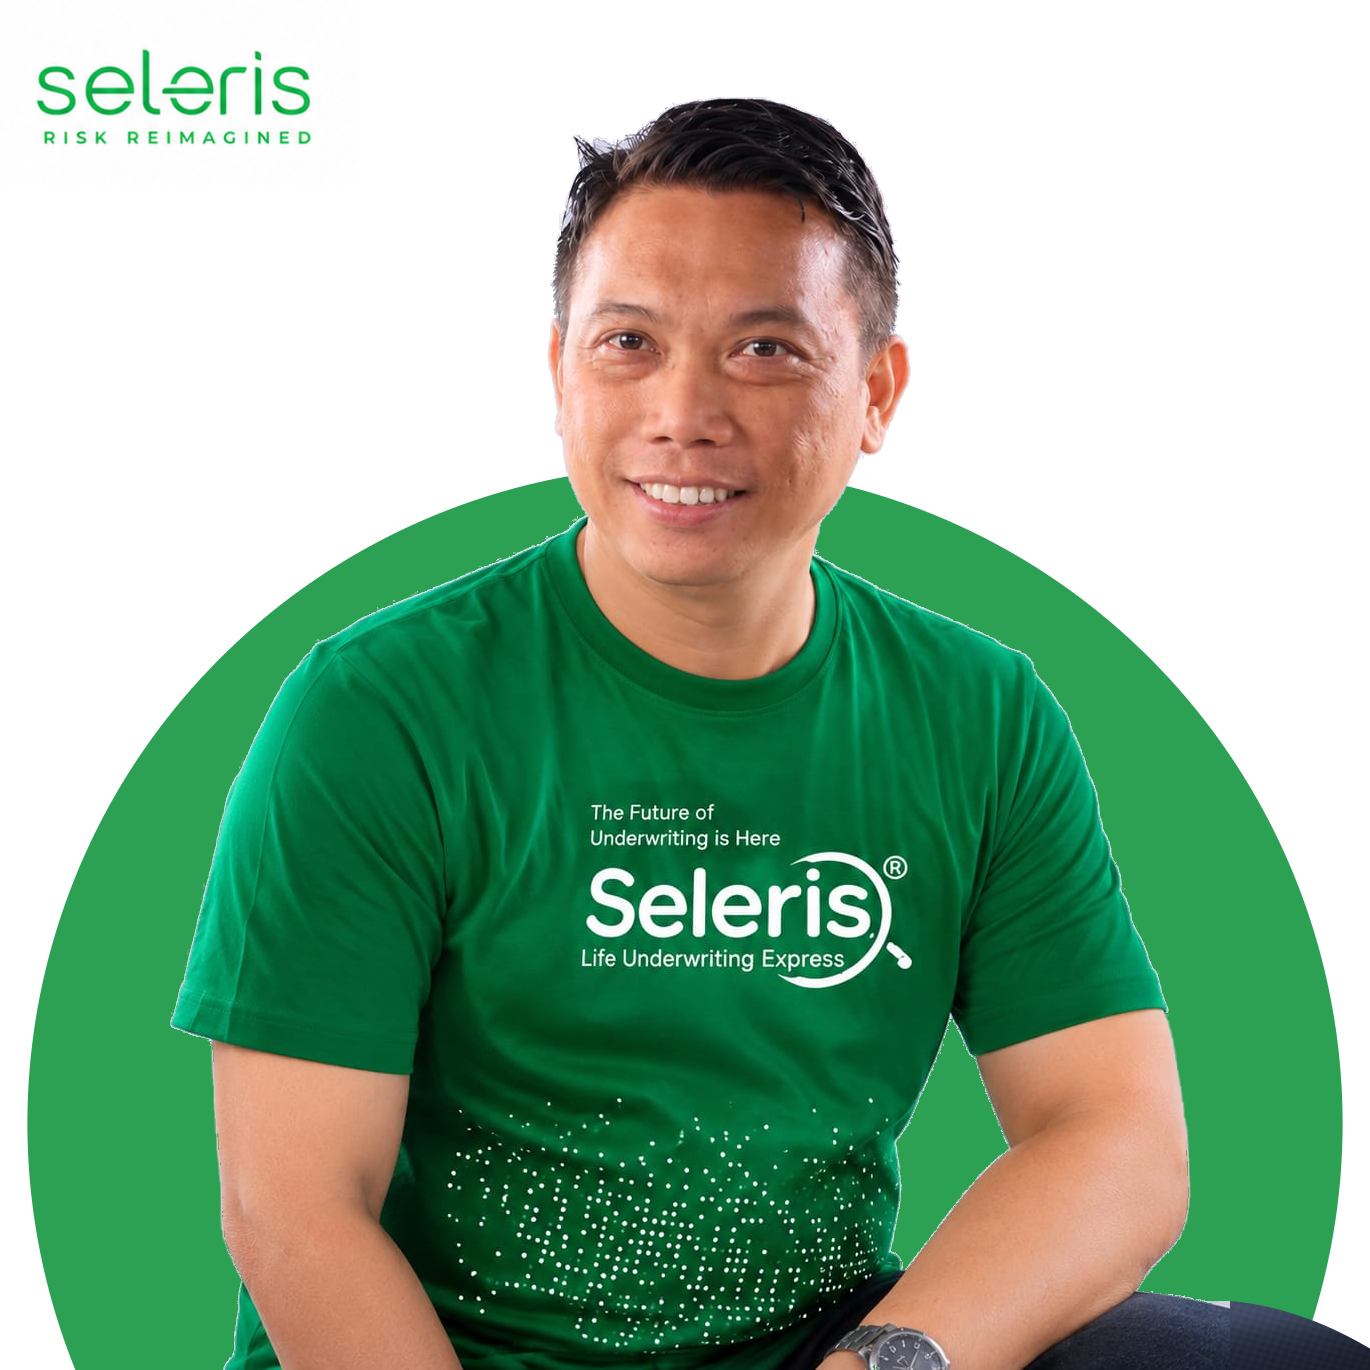
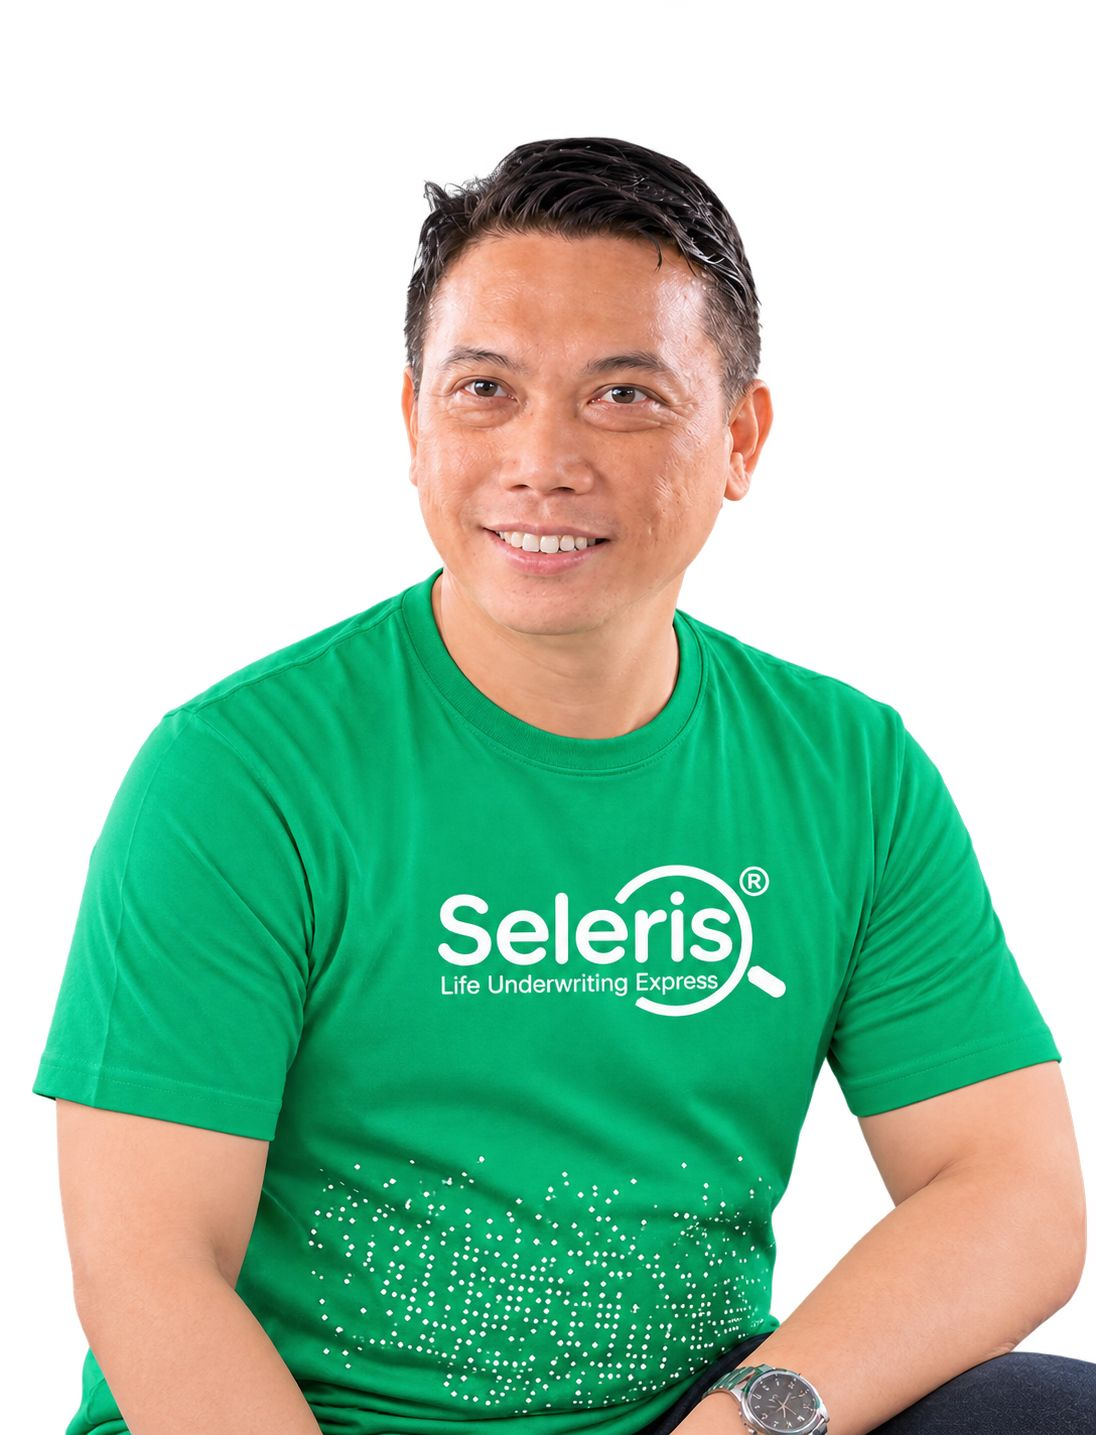
workshop: gate Sentris workshop data behind a host switch
Static on seleris.ai for now (no Sentris calls, /workshops shows the empty
state, HEALTHPRICING page hidden, home popup off) so draft test data in
Sentris does not leak to production. Dynamic on localhost and
selerisup2date.pages.dev for testing. Flip by adding the host to the list
in src/Data/workshops/index.js once approved.

Also compress Yudhi and Yusuf team photos (1.5 MB -> ~0.14 MB each).

diff --git a/src/Data/workshops/index.js b/src/Data/workshops/index.js
@@ -6,6 +6,26 @@ export const workshopCatalog = [
   { i18nKey: "healthpricing360", workshop: healthPricing360 },
 ];
 
+// Sakelar sementara: data workshop dari Sentris hanya aktif di lokal dan di
+// situs uji selerisup2date.pages.dev. Di seleris.ai belum, sampai pengujian
+// selesai dan disetujui. Untuk mengaktifkan di produksi nanti: tambahkan
+// "seleris.ai" ke daftar, atau ubah baris ini menjadi true.
+const dynamicHost = () => {
+  if (typeof window === "undefined") return false;
+  const host = window.location.hostname;
+  return (
+    host === "localhost" ||
+    host === "127.0.0.1" ||
+    host === "selerisup2date.pages.dev" ||
+    host.endsWith(".selerisup2date.pages.dev")
+  );
+};
+
+const isDevBuild =
+  typeof import.meta !== "undefined" && import.meta.env && import.meta.env.DEV;
+
+export const WORKSHOP_DYNAMIC = Boolean(isDevBuild) || dynamicHost();
+
 export const detailPathFor = (slug) =>
   workshopCatalog.find((entry) => entry.workshop.slug === slug)?.workshop
     .path || null;

diff --git a/src/composables/useWorkshopList.js b/src/composables/useWorkshopList.js
@@ -1,7 +1,7 @@
 import { computed, ref } from "vue";
 import { useI18n } from "vue-i18n";
 import { usePageLoadingStore } from "@/stores/pageLoading";
-import { detailPathFor } from "@/Data/workshops";
+import { WORKSHOP_DYNAMIC, detailPathFor } from "@/Data/workshops";
 import { loadWorkshopList, sentrisWorkshops } from "@/consumeAPI/workshopsApi";
 
 const STATUSES = ["open", "full", "closed", "past"];
@@ -62,9 +62,15 @@ const compare = (a, b) => {
 
 export function useWorkshopList() {
   const { locale } = useI18n();
-  const state = ref(sentrisWorkshops.value ? "ready" : "loading");
+  const state = ref(
+    !WORKSHOP_DYNAMIC || sentrisWorkshops.value ? "ready" : "loading",
+  );
 
   const load = async ({ fresh = true } = {}) => {
+    if (!WORKSHOP_DYNAMIC) {
+      state.value = "ready";
+      return;
+    }
     const pageLoading = usePageLoadingStore();
     if (!sentrisWorkshops.value) state.value = "loading";
     pageLoading.start();

diff --git a/src/components/Home/WorkshopPopup.vue b/src/components/Home/WorkshopPopup.vue
@@ -8,6 +8,7 @@ import ResourceWorkshop from "@/components/icons/ResourceWorkshop.vue";
 import { useSidebarStore } from "@/stores/sidebar";
 import { loadWorkshopList } from "@/consumeAPI/workshopsApi";
 import { featuredWorkshop, workshopStatus } from "@/utils/workshopStatus";
+import { WORKSHOP_DYNAMIC } from "@/Data/workshops";
 
 const DISMISS_KEY = `seleris:workshop-popup:${workshop.slug}`;
 const SHOW_DELAY_MS = 1400;
@@ -54,7 +55,7 @@ watch([contentReady, eligible], ([ready, ok]) => {
 });
 
 onMounted(async () => {
-  if (wasDismissed()) return;
+  if (!WORKSHOP_DYNAMIC || wasDismissed()) return;
   try {
     const item = featuredWorkshop(await loadWorkshopList());
     if (item?.slug !== workshop.slug || workshopStatus(item) !== "open") return;

diff --git a/src/router/index.js b/src/router/index.js
@@ -1,6 +1,6 @@
 import { createRouter, createWebHistory } from "vue-router";
 import { healthPricing360 } from "@/Data/workshops/healthpricing360";
-import { WORKSHOP_LIST_PATH } from "@/Data/workshops";
+import { WORKSHOP_DYNAMIC, WORKSHOP_LIST_PATH } from "@/Data/workshops";
 import { loadWorkshopDetail } from "@/consumeAPI/workshopsApi";
 
 // "ai-powered" -> "Ai Powered"
@@ -214,6 +214,7 @@ const routes = [
     meta: { title: "HEALTHPRICING 360° Workshop" },
     beforeEnter: async () => {
       if (import.meta.env.DEV) return true;
+      if (!WORKSHOP_DYNAMIC) return { path: "/", replace: true };
       try {
         const detail = await loadWorkshopDetail(healthPricing360.slug);
         return Boolean(detail) || { path: "/", replace: true };

diff --git a/src/components/Sidebar.vue b/src/components/Sidebar.vue
@@ -12,6 +12,7 @@ import { productList } from "@/Data/ProductList";
 import { technologyList } from "@/Data/TechnologyList";
 import { SolutionLists } from "@/Data/SolutionLists";
 import { resourceList } from "@/Data/ResourceList";
+import { WORKSHOP_DYNAMIC } from "@/Data/workshops";
 import { loadWorkshopList } from "@/consumeAPI/workshopsApi";
 import { onMounted } from "vue";
 import ArrowRight from "@/components/icons/ArrowRight.vue";
@@ -78,7 +79,7 @@ const toggleResource = () => {
 };
 
 onMounted(() => {
-  loadWorkshopList().catch(() => {});
+  if (WORKSHOP_DYNAMIC) loadWorkshopList().catch(() => {});
   observer.observe(document.documentElement, {
     attributes: true,
     attributeFilter: ["class"],

diff --git a/src/Data/ResourceList.js b/src/Data/ResourceList.js
@@ -2,12 +2,12 @@ import { computed } from "vue";
 import ResourceBlog from "@/components/icons/ResourceBlog.vue";
 import ResourceCareer from "@/components/icons/ResourceCareer.vue";
 import ResourceWorkshop from "@/components/icons/ResourceWorkshop.vue";
-import { WORKSHOP_LIST_PATH } from "@/Data/workshops";
+import { WORKSHOP_DYNAMIC, WORKSHOP_LIST_PATH } from "@/Data/workshops";
 import { sentrisWorkshops } from "@/consumeAPI/workshopsApi";
 import { workshopStatus } from "@/utils/workshopStatus";
 
 export const resourceList = computed(() => {
-  const workshops = sentrisWorkshops.value || [];
+  const workshops = WORKSHOP_DYNAMIC ? sentrisWorkshops.value || [] : [];
   return [
     {
       key: "blogs",

diff --git a/src/components/MenuNav.vue b/src/components/MenuNav.vue
@@ -8,6 +8,7 @@ import { aboutList } from "@/Data/AboutList";
 import { technologyList } from "@/Data/TechnologyList";
 import { SolutionLists } from "@/Data/SolutionLists";
 import { resourceList } from "@/Data/ResourceList";
+import { WORKSHOP_DYNAMIC } from "@/Data/workshops";
 import { loadWorkshopList } from "@/consumeAPI/workshopsApi";
 import ArrowRight from "@/components/icons/ArrowRight.vue";
 
@@ -54,7 +55,7 @@ const handleScroll = () => {
 };
 
 onMounted(() => {
-  loadWorkshopList().catch(() => {});
+  if (WORKSHOP_DYNAMIC) loadWorkshopList().catch(() => {});
   observer.observe(document.documentElement, {
     attributes: true,
     attributeFilter: ["class"],
